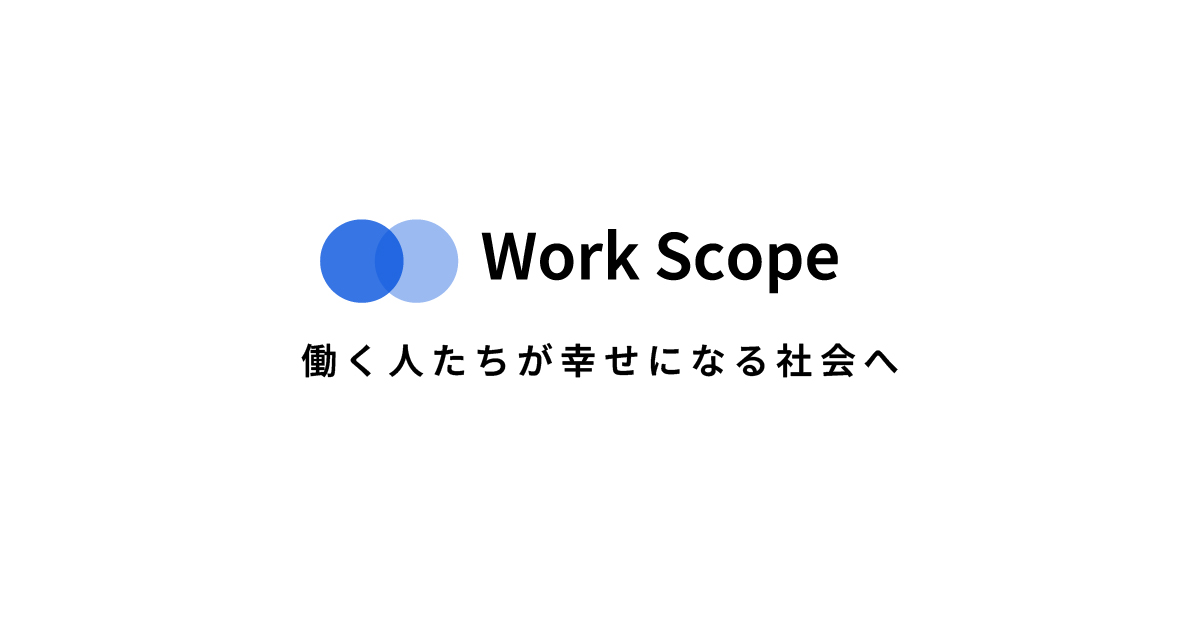
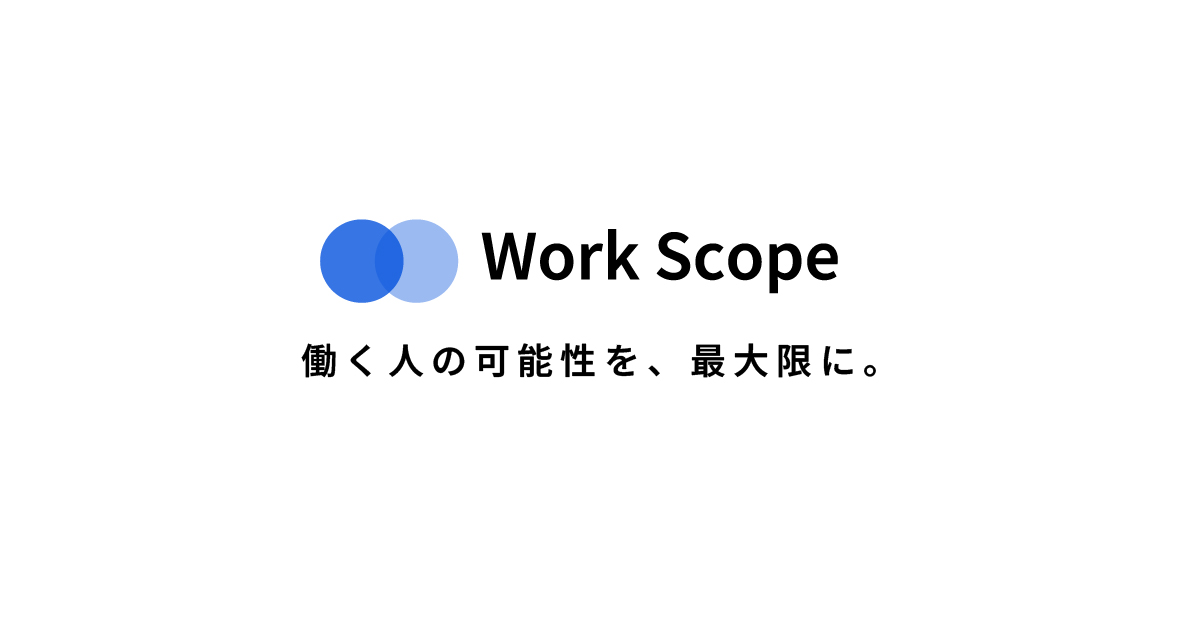
[Fix] ogp画像差し替え

Changed region(s): [[0.3392, 0.5429, 0.74, 0.6032]]

diff --git a/wp/wp-content/themes/work-scope/inc/service/common/CommonAcfService.php b/wp/wp-content/themes/work-scope/inc/service/common/CommonAcfService.php
@@ -1,0 +1,31 @@
+<?php
+
+namespace WorkScope\Inc\Service\Common;
+
+if (!defined("ABSPATH")) die();
+
+class CommonAcfService
+{
+  /**
+   * サイトオプションのデータを取得します
+   *
+   * @return array サイトオプションデータの配列
+   */
+  public static function get_site_options(): array
+  {
+    return [
+      'base_color' => self::get_base_color(),
+    ];
+  }
+
+  /**
+   * ベースカラーを取得します
+   *
+   * @return string ベースカラーの値（デフォルト: #0553dd）
+   */
+  public static function get_base_color(): string
+  {
+    $base_color = get_field('base_color', 'option');
+    return $base_color ?: '#0553dd';
+  }
+}

diff --git a/wp/wp-content/themes/work-scope/components/head.php b/wp/wp-content/themes/work-scope/components/head.php
@@ -1,10 +1,14 @@
 <?php
 
 use WorkScope\Inc\Utils;
+use WorkScope\Inc\Service\Common\CommonAcfService;
+
+$site_options = CommonAcfService::get_site_options();
+$base_color = $site_options['base_color'];
 ?>
 
 <!DOCTYPE html>
-<html lang="ja">
+<html lang="ja" style="--color-primary: <?php echo $base_color; ?>;">
 
 <head prefix="og: http://ogp.me/ns# fb: http://ogp.me/ns/fb# website: http://ogp.me/ns/<?php echo Utils::get_og_type(); ?>#">
   <meta charset="UTF-8">

diff --git a/wp/wp-content/themes/work-scope/functions.php b/wp/wp-content/themes/work-scope/functions.php
@@ -3,6 +3,7 @@ require_once __DIR__ . "/inc/admin.php";
 require_once __DIR__ . "/inc/post-types.php";
 require_once __DIR__ . "/inc/reset-head.php";
 require_once __DIR__ . "/inc/utils.php";
+require_once __DIR__ . "/inc/service/common/index.php";
 require_once __DIR__ . "/inc/service/front/index.php";
 require_once __DIR__ . "/inc/service/single/index.php";
 require_once __DIR__ . "/inc/service/archive/index.php";

diff --git a/wp/wp-content/themes/work-scope/inc/service/common/index.php b/wp/wp-content/themes/work-scope/inc/service/common/index.php
@@ -1,0 +1,3 @@
+<?php
+
+require_once __DIR__ . "/CommonAcfService.php";
